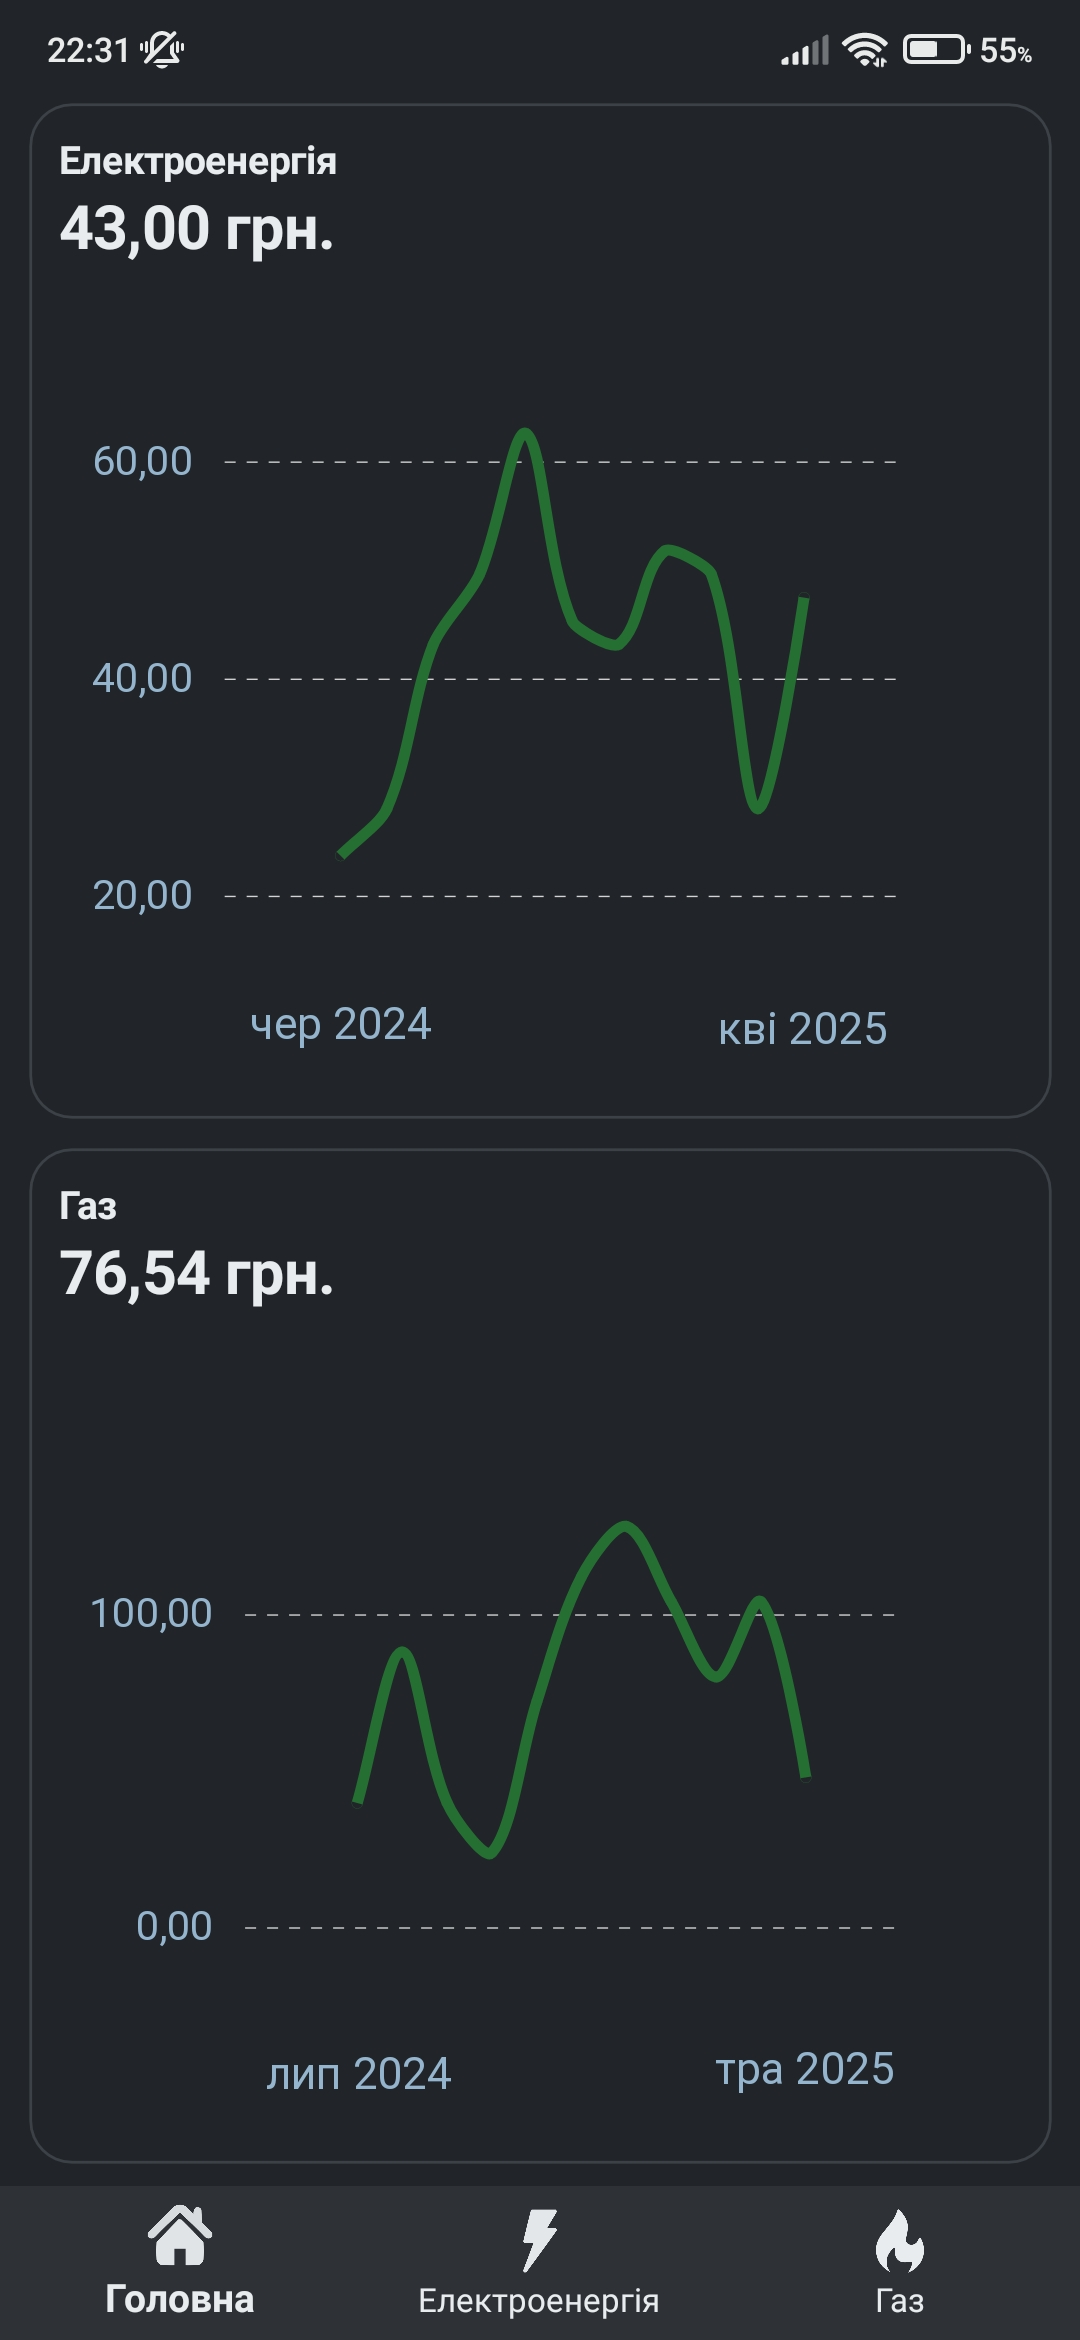
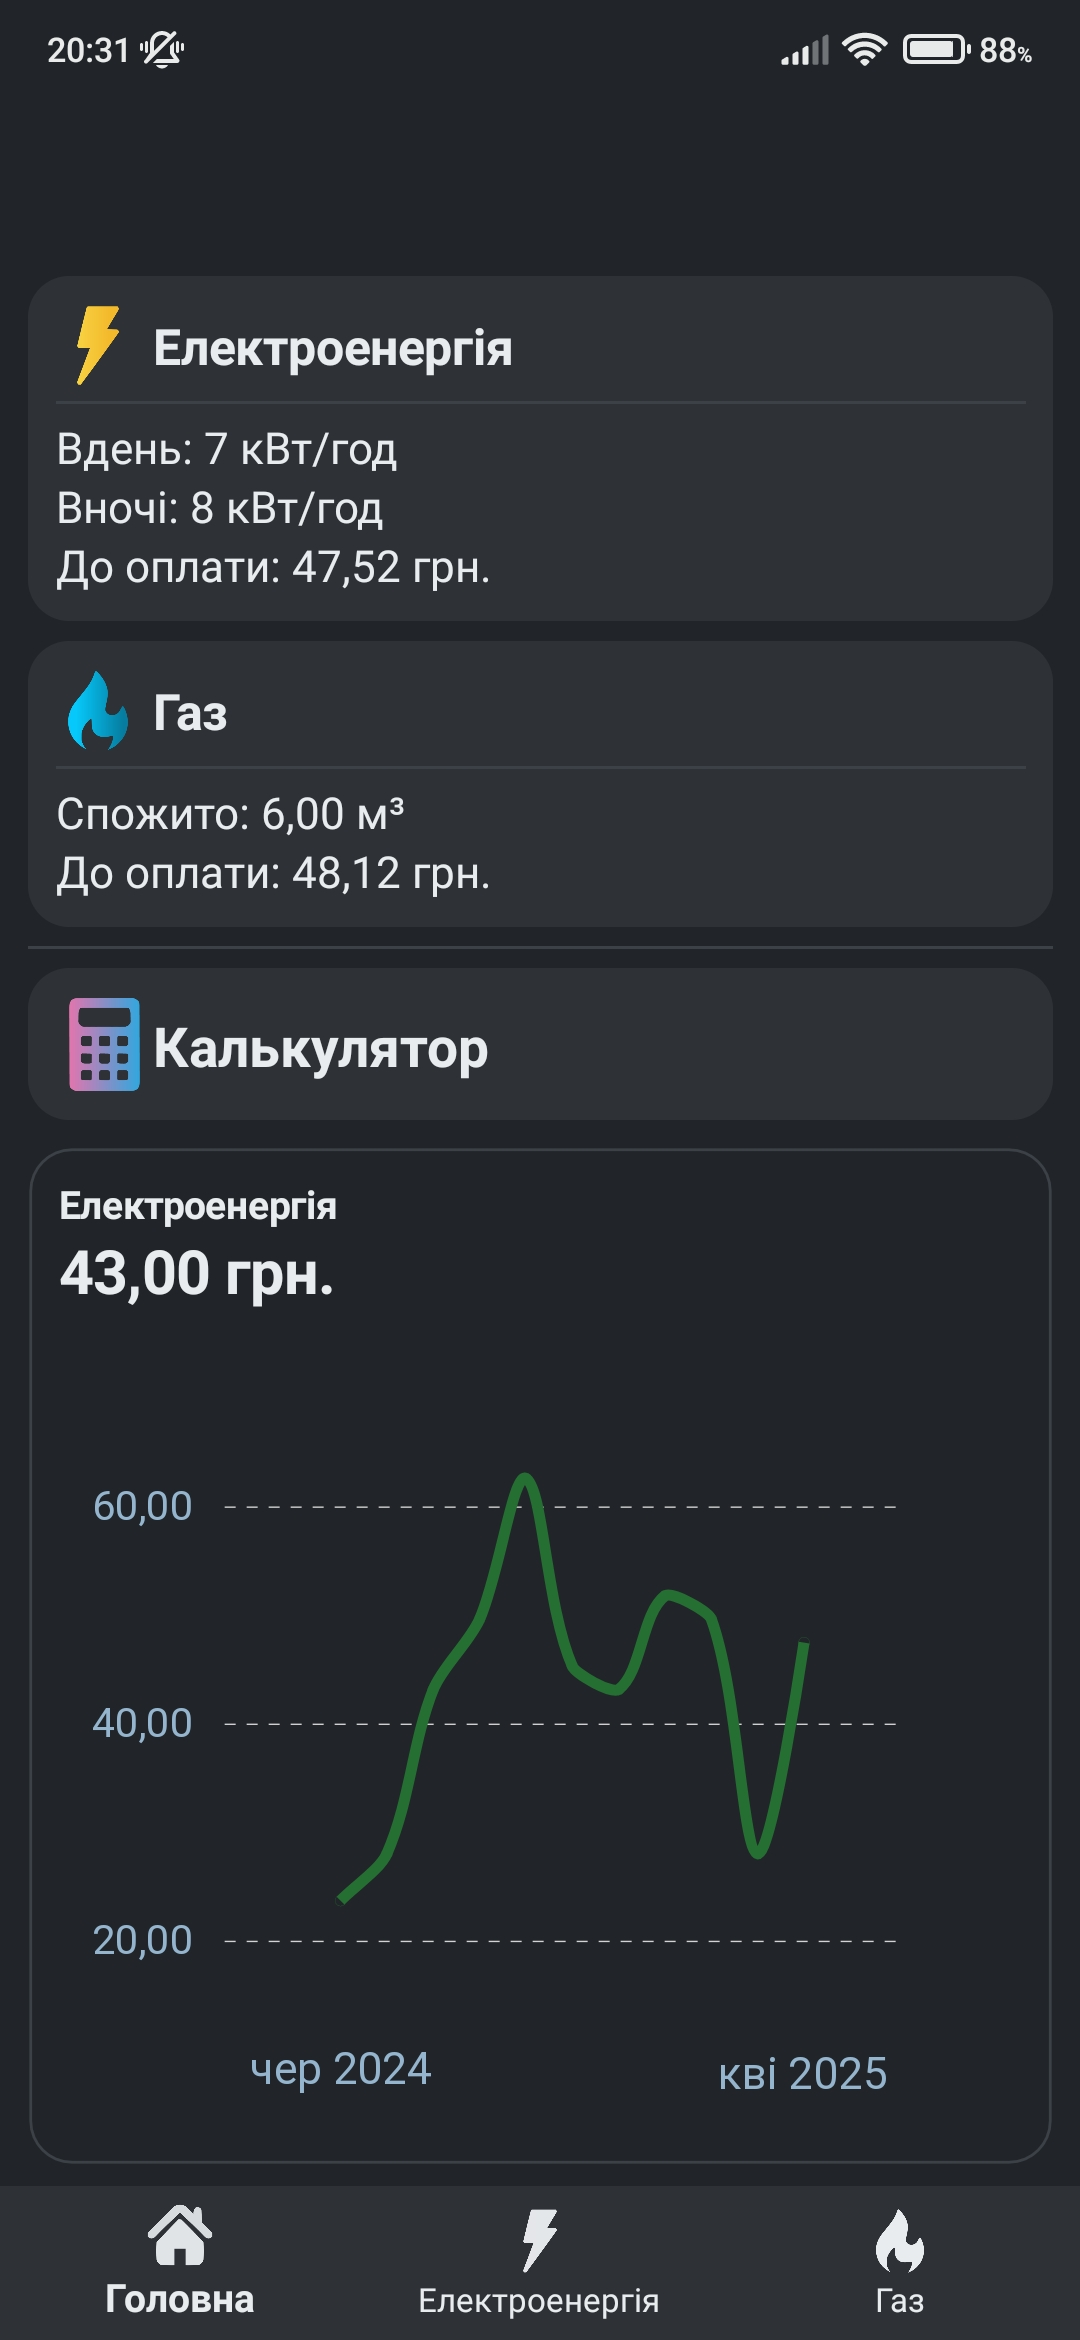
Updated screentshots

diff --git a/Screenshots/Mobile/Screenshots.md b/Screenshots/Mobile/Screenshots.md
@@ -3,6 +3,9 @@
 ### Main page
 <img src="main-page.jpg" width="300">
 
+### Calculator page
+<img src="calculator-page.jpg" width="300">
+
 ## Dashboard pages
 ### Electricity
 <img src="electricity-dashboard-page.jpg" width="300">

diff --git a/Screenshots/Desktop/Screenshots.md b/Screenshots/Desktop/Screenshots.md
@@ -3,7 +3,10 @@
 <img src="splash-screen.png">
 
 ### Main view
-<img src="home-view.png">
+<img src="main-view.png">
+
+### Calculator Dialog
+<img src="calculator-dialog.png">
 
 ## Dashboard views
 ### Electricity
